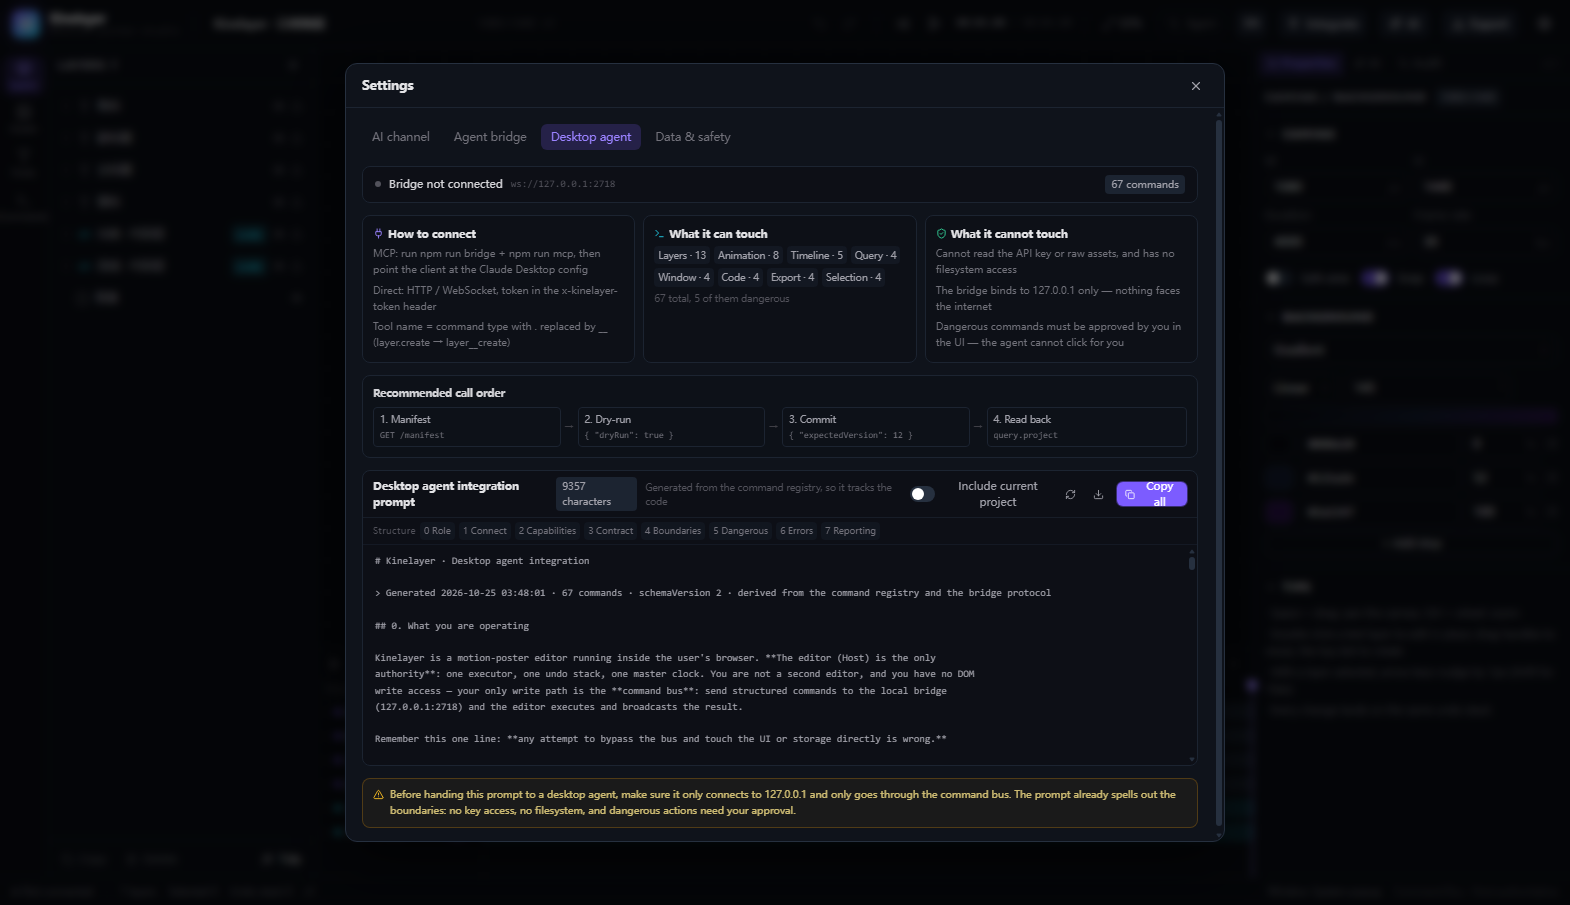
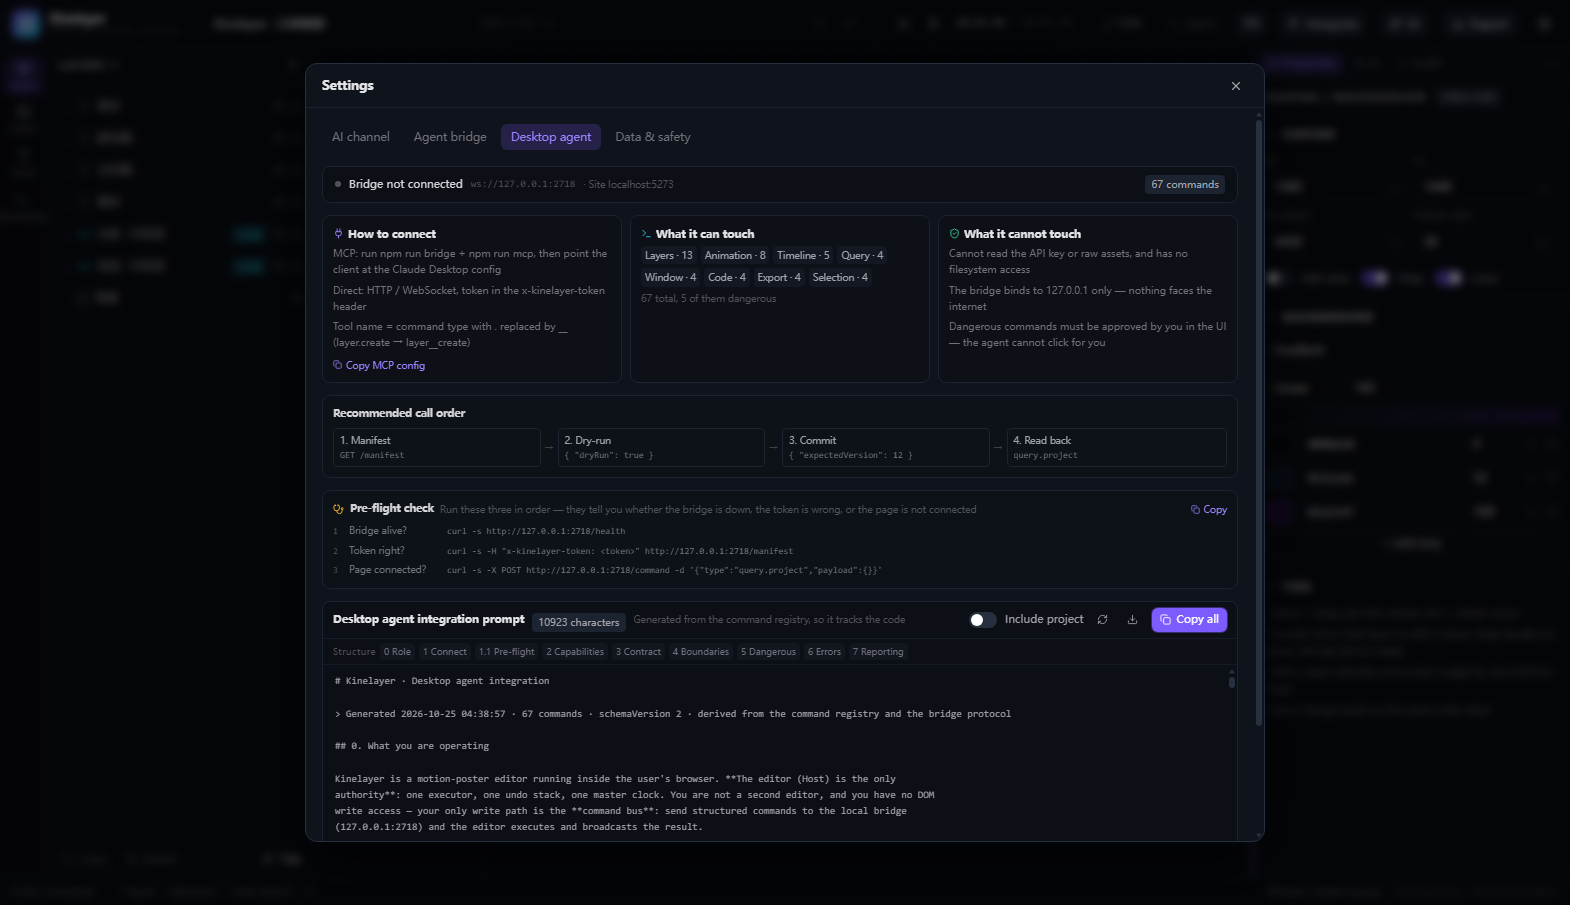
feat(agent): 设置页提示词补「在线站点」语境 + 接入前自检
面板本来就有，这轮补的是「站点部署到线上之后」真正会遇到的坑：
Agent 容易误以为该去请求站点地址，也分不清「桥接没跑 / 令牌不对 / 页面没连」。

提示词
- 第 0 节写入「用户此刻打开的页面」= window.location.origin，
  并强调页面只是外壳，命令永远打本机 127.0.0.1:2718，站点侧没有写入口。
- 新增 ### 1.1 接入前自检：三条 curl 按顺序打（/health → /manifest → POST /command），
  配一张「现象 → 含义 → 处置」表（连接拒绝 / 401 / NO_HOST），
  并提醒关掉标签页就会 NO_HOST、不要死循环重试。
- 中英双语同步；结构索引从 8 节变 9 节。

面板
- 状态条显示当前站点（去掉协议头）。
- 新增「接入前自检」块：三行命令，一键复制。
- 新增「复制 MCP 配置」：buildMcpConfigSnippet() 生成，
  令牌留占位符——页面里本来就拿不到真实令牌，也不该写进可分享的文本。
- Agent 标签 Modal 880 → 960：否则英文标签在 880 下会折行。

验证
- agent-panel-check 扩到 16 项：站点地址进正文、自检块存在、
  MCP 配置可复制且含 KINELAYER_BRIDGE_TOKEN、代码块围栏成对 + 章节数校验。
- typecheck / build 零错误；v2-check 17/17、rename-check 18/18。
- 品牌残留扫描仍只有 idb.ts 那条迁移字面量。

顺带修：词典里以全角「？」结尾的裸键不是合法标识符（TS1127），已加引号。

Changed region(s): [[0.1873, 0.1238, 0.8115, 0.9282], [0.1873, 0.0928, 0.4369, 0.2166]]

diff --git a/src/ui/AgentAccessPanel.tsx b/src/ui/AgentAccessPanel.tsx
@@ -1,8 +1,8 @@
 import { useMemo, useState } from 'react';
-import { AlertTriangle, Check, Copy, Download, Plug, RefreshCw, ShieldCheck, Terminal } from 'lucide-react';
+import { AlertTriangle, Check, Copy, Download, Plug, RefreshCw, ShieldCheck, Stethoscope, Terminal } from 'lucide-react';
 import { listCommands } from '@/core/registry';
 import { pushToast, useEditor } from '@/core/store';
-import { buildDesktopAgentPrompt } from '@/ai/prompt';
+import { buildDesktopAgentPrompt, buildMcpConfigSnippet } from '@/ai/prompt';
 import { Badge, Button, IconButton, Toggle, cx } from './primitives';
 import { copyText, downloadText } from './clipboard';
 import { t } from '@/i18n';
@@ -17,6 +17,9 @@ const BRIDGE = {
   tokenHeader: 'x-kinelayer-token',
 } as const;
 
+/** 用户此刻打开的是哪个站点。写进提示词，Agent 才不会去请求站点地址做编辑 */
+const SITE = typeof window !== 'undefined' ? window.location.origin : '';
+
 const FLOW = [
   { zh: '读清单', cmd: 'GET /manifest' },
   { zh: '试算', cmd: '{ "dryRun": true }' },
@@ -24,10 +27,18 @@ const FLOW = [
   { zh: '读回', cmd: 'query.project' },
 ];
 
+/** 出问题先打这三条：能立刻分清「桥接没跑 / 令牌不对 / 页面没连」 */
+const CHECKS = [
+  { zh: '桥接活着？', cmd: `curl -s ${BRIDGE.http}/health` },
+  { zh: '令牌对？', cmd: `curl -s -H "${BRIDGE.tokenHeader}: <token>" ${BRIDGE.http}/manifest` },
+  { zh: '页面连上了？', cmd: `curl -s -X POST ${BRIDGE.http}/command -d '{"type":"query.project","payload":{}}'` },
+];
+
 /** 提示词的结构索引：让用户一眼看清这段文本讲了哪几件事 */
 const OUTLINE = [
   '0 定位',
   '1 接入',
+  '1.1 自检',
   '2 能力',
   '3 契约',
   '4 边界',
@@ -53,10 +64,11 @@ export function AgentAccessPanel() {
 
   // nonce 只是让「重新生成」能强制刷新时间戳
   const prompt = useMemo(
-    () => buildDesktopAgentPrompt({ includeProject, project }),
+    () => buildDesktopAgentPrompt({ includeProject, project, site: SITE }),
     // eslint-disable-next-line react-hooks/exhaustive-deps
     [includeProject, project, nonce],
   );
+  const mcpConfig = useMemo(() => buildMcpConfigSnippet(), []);
 
   const connected = bridge.state === 'connected';
 
@@ -74,6 +86,9 @@ export function AgentAccessPanel() {
           {connected ? t('桥接已连接') : bridge.state === 'error' ? t('桥接出错') : t('桥接未连接')}
         </span>
         <span className="font-mono text-[10px] text-zinc-600">{BRIDGE.ws}</span>
+        <span className="truncate text-[9.5px] text-zinc-600" title={SITE}>
+          · {t('站点')} {SITE.replace(/^https?:\/\//, '')}
+        </span>
         {connected && bridge.agents > 0 && (
           <Badge tone="accent">{t('{n} 个 Agent 在线', { n: bridge.agents })}</Badge>
         )}
@@ -92,6 +107,16 @@ export function AgentAccessPanel() {
             <li>{t('直连：HTTP / WebSocket，令牌放 {header} 头', { header: BRIDGE.tokenHeader })}</li>
             <li>{t('工具名 = 命令类型把 . 换成 __（layer.create → layer__create）')}</li>
           </ul>
+          <button
+            type="button"
+            className="text-accent-soft hover:text-accent mt-1.5 flex items-center gap-1 text-[9.5px]"
+            onClick={async () => {
+              await copyText(mcpConfig);
+              pushToast('success', t('已复制 MCP 配置'));
+            }}
+          >
+            <Copy size={9} /> {t('复制 MCP 配置')}
+          </button>
         </div>
         <div className="border-ink-700 bg-ink-900/50 rounded-lg border p-2.5">
           <div className="mb-1 flex items-center gap-1 text-[11px] font-semibold text-zinc-200">
@@ -140,12 +165,47 @@ export function AgentAccessPanel() {
         </div>
       </div>
 
+      {/* ── 接入前自检 ───────────────────────────────────── */}
+      <div className="border-ink-700 bg-ink-900/40 rounded-lg border p-2.5">
+        <div className="mb-1.5 flex items-center gap-1.5">
+          <Stethoscope size={11} className="shrink-0 text-amber-400" />
+          <span className="shrink-0 text-[10.5px] font-semibold text-zinc-300">{t('接入前自检')}</span>
+          <span className="truncate text-[9.5px] text-zinc-600">
+            {t('三条命令按顺序打，先分清是桥接没跑、令牌不对，还是页面没连')}
+          </span>
+          <div className="flex-1" />
+          <button
+            type="button"
+            className="text-accent-soft hover:text-accent flex shrink-0 items-center gap-1 text-[9.5px]"
+            onClick={async () => {
+              await copyText(CHECKS.map((c) => c.cmd).join('\n'));
+              pushToast('success', t('已复制自检命令'));
+            }}
+          >
+            <Copy size={9} /> {t('复制')}
+          </button>
+        </div>
+        <div className="space-y-1">
+          {CHECKS.map((c, i) => (
+            <div key={c.cmd} className="flex items-baseline gap-1.5">
+              <span className="w-2.5 shrink-0 font-mono text-[9px] text-zinc-600">{i + 1}</span>
+              <span className="w-[92px] shrink-0 text-[9.5px] whitespace-nowrap text-zinc-500">{t(c.zh)}</span>
+              <code className="min-w-0 flex-1 truncate font-mono text-[9px] text-zinc-500" title={c.cmd}>
+                {c.cmd}
+              </code>
+            </div>
+          ))}
+        </div>
+      </div>
+
       {/* ── 提示词正文 ───────────────────────────────────── */}
       <div className="border-ink-700 bg-ink-900/60 rounded-lg border">
         <div className="border-ink-700/70 flex items-center gap-2 border-b px-2.5 py-1.5">
-          <span className="text-[11px] font-semibold text-zinc-200">{t('桌面 Agent 接入提示词')}</span>
-          <Badge tone="neutral">{t('{n} 字符', { n: prompt.length })}</Badge>
-          <span className="text-[9.5px] text-zinc-600">{t('由命令注册表生成，随代码自动更新')}</span>
+          <span className="shrink-0 text-[11px] font-semibold whitespace-nowrap text-zinc-200">{t('桌面 Agent 接入提示词')}</span>
+          <span className="shrink-0 whitespace-nowrap">
+            <Badge tone="neutral">{t('{n} 字符', { n: prompt.length })}</Badge>
+          </span>
+          <span className="truncate text-[9.5px] text-zinc-600">{t('由命令注册表生成，随代码自动更新')}</span>
           <div className="flex-1" />
           <Toggle value={includeProject} onChange={setIncludeProject} label={t('带上当前项目')} />
           <IconButton size={22} title={t('重新生成')} onClick={() => setNonce((n) => n + 1)}>

diff --git a/src/i18n/en.ts b/src/i18n/en.ts
@@ -494,10 +494,21 @@ export const en: Record<string, string> = {
   '危险命令必须由你在界面上确认，Agent 不能代点':
     'Dangerous commands must be approved by you in the UI — the agent cannot click for you',
   推荐调用顺序: 'Recommended call order',
+  接入前自检: 'Pre-flight check',
+  '三条命令按顺序打，先分清是桥接没跑、令牌不对，还是页面没连':
+    'Run these three in order — they tell you whether the bridge is down, the token is wrong, or the page is not connected',
+  '桥接活着？': 'Bridge alive?',
+  '令牌对？': 'Token right?',
+  '页面连上了？': 'Page connected?',
+  '已复制自检命令': 'Pre-flight commands copied',
+  站点: 'Site',
+  '复制 MCP 配置': 'Copy MCP config',
+  '已复制 MCP 配置': 'MCP config copied',
   结构: 'Structure',
   '第 {i} 节': 'section {i}',
   '0 定位': '0 Role',
   '1 接入': '1 Connect',
+  '1.1 自检': '1.1 Pre-flight',
   '2 能力': '2 Capabilities',
   '3 契约': '3 Contract',
   '4 边界': '4 Boundaries',
@@ -511,7 +522,7 @@ export const en: Record<string, string> = {
   '桌面 Agent 接入提示词': 'Desktop agent integration prompt',
   '由命令注册表生成，随代码自动更新':
     'Generated from the command registry, so it tracks the code',
-  带上当前项目: 'Include current project',
+  带上当前项目: 'Include project',
   复制全部: 'Copy all',
   已复制: 'Copied',
   '已下载 kinelayer-desktop-agent.md': 'Downloaded kinelayer-desktop-agent.md',

diff --git a/src/ui/Dialogs.tsx b/src/ui/Dialogs.tsx
@@ -75,7 +75,7 @@ export function SettingsDialog() {
   const close = () => updateUi((ui) => { ui.showSettings = false; });
 
   return (
-    <Modal title={t('设置')} onClose={close} width={tab === 'agent' ? 880 : 680}>
+    <Modal title={t('设置')} onClose={close} width={tab === 'agent' ? 960 : 680}>
       <div className="mb-4 flex gap-1">
         {TABS.map((item) => (
           <button

diff --git a/README.md b/README.md
@@ -182,6 +182,10 @@ npm run mcp
 然后在编辑器「设置 → Agent 桥接」里填 `ws://127.0.0.1:2718` + 令牌，点连接。
 状态栏出现「Agent 已连接」就通了。
 
+**不想手写配置**：打开「设置 → 桌面 Agent」，那里有一份由命令注册表实时生成的接入提示词——
+站点地址、两种接入方式、67 条命令的能力范围、七条调用契约、七条权限边界、错误码处置、
+外加三条 `curl` 自检命令，一键复制就能交给本机 Agent 工具；旁边还有「复制 MCP 配置」。
+
 Claude Desktop 配置示例见 `agent-bridge/claude-desktop-config.json`。
 
 桥接自检（不打开浏览器也能验）：

diff --git a/README.en.md b/README.en.md
@@ -189,6 +189,11 @@ hit connect. The status bar shows "Agent connected" when it is up.
 
 A Claude Desktop config sample lives in `agent-bridge/claude-desktop-config.json`.
 
+**Rather not hand-write config?** Open **Settings → Desktop agent**. It carries an integration prompt generated live
+from the command registry — site address, both ways in, the capability scope of all 67 commands, seven contract rules,
+seven permission boundaries, error-code handling, plus three `curl` pre-flight checks. One click copies it for any
+local agent tool, and a “Copy MCP config” button sits right next to it.
+
 Self-check (no browser needed):
 
 ```bash
